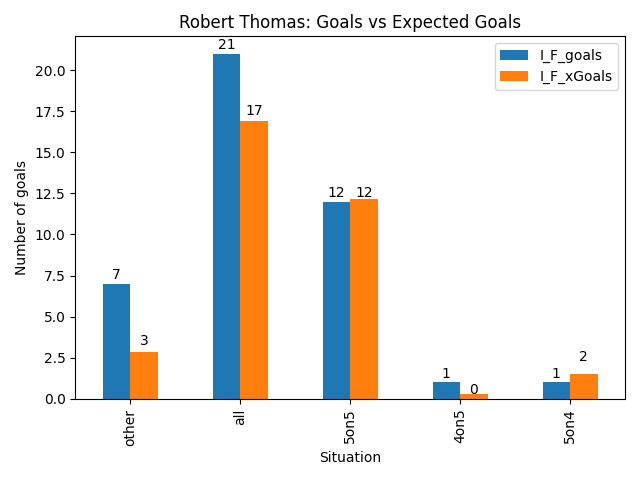
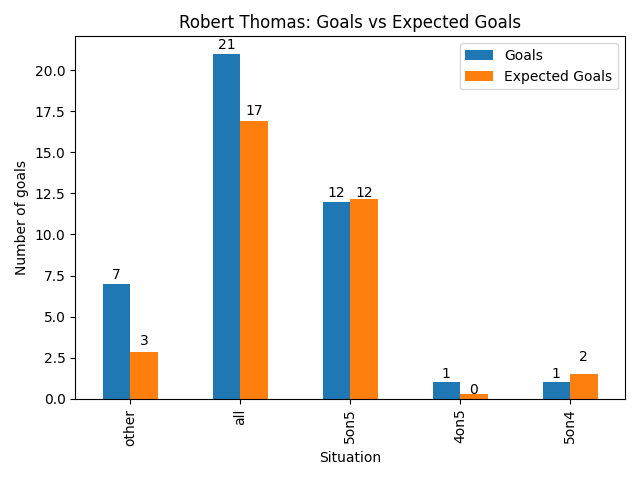
updated graph

Changed region(s): [[0.7188, 0.0938, 0.9375, 0.1875]]

diff --git a/analyze.py b/analyze.py
@@ -51,7 +51,6 @@ tidy_df = thomas_df[["games_played", "situation", "icetime", "shifts", "I_F_xGoa
 
 print(tidy_df)
 
-
 tidy_df.to_markdown("thomas.md")
 
 import pandas as pd
@@ -66,6 +65,7 @@ bar = thomas.plot.bar(x="situation", y=["I_F_goals", "I_F_xGoals"])
 bar.set_title("Robert Thomas: Goals vs Expected Goals")
 bar.set_xlabel("Situation")
 bar.set_ylabel("Number of goals")
+bar.legend(["Goals", "Expected Goals"])
 
 for p in bar.patches:
     height = round(p.get_height())  # Round the value

diff --git a/index.md b/index.md
@@ -78,6 +78,7 @@ bar = thomas.plot.bar(x="situation", y=["I_F_goals", "I_F_xGoals"])
 bar.set_title("Robert Thomas: Goals vs Expected Goals")
 bar.set_xlabel("Situation")
 bar.set_ylabel("Number of goals")
+bar.legend(["Goals","Expected Goals"])
 
 for p in bar.patches:
     height = round(p.get_height())  # Round the value
